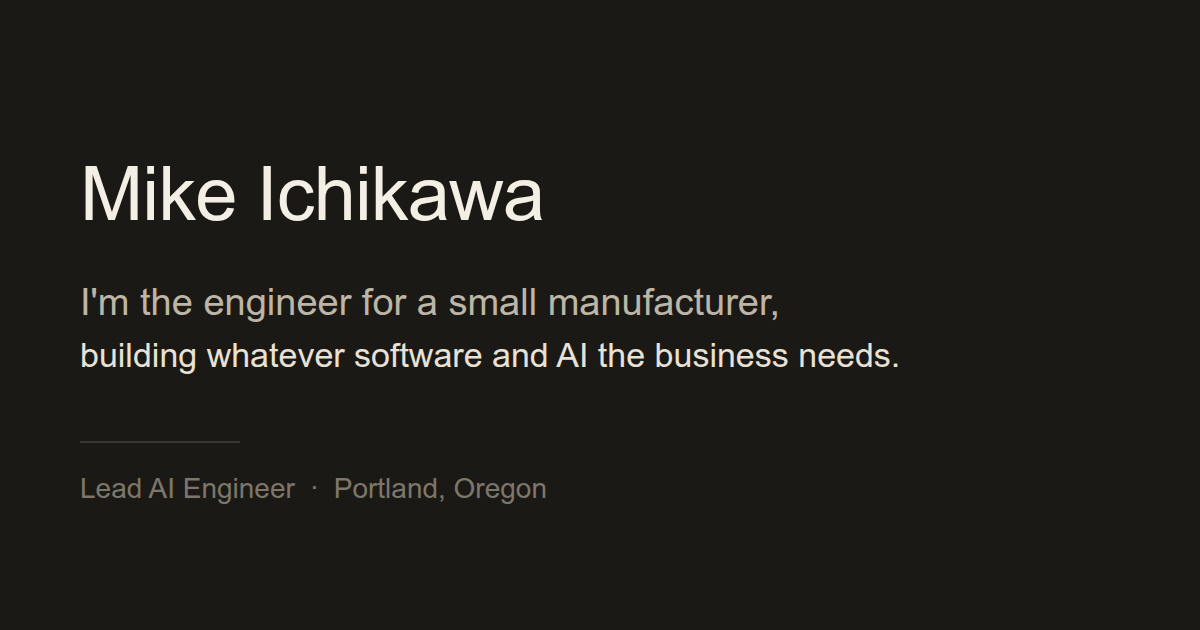
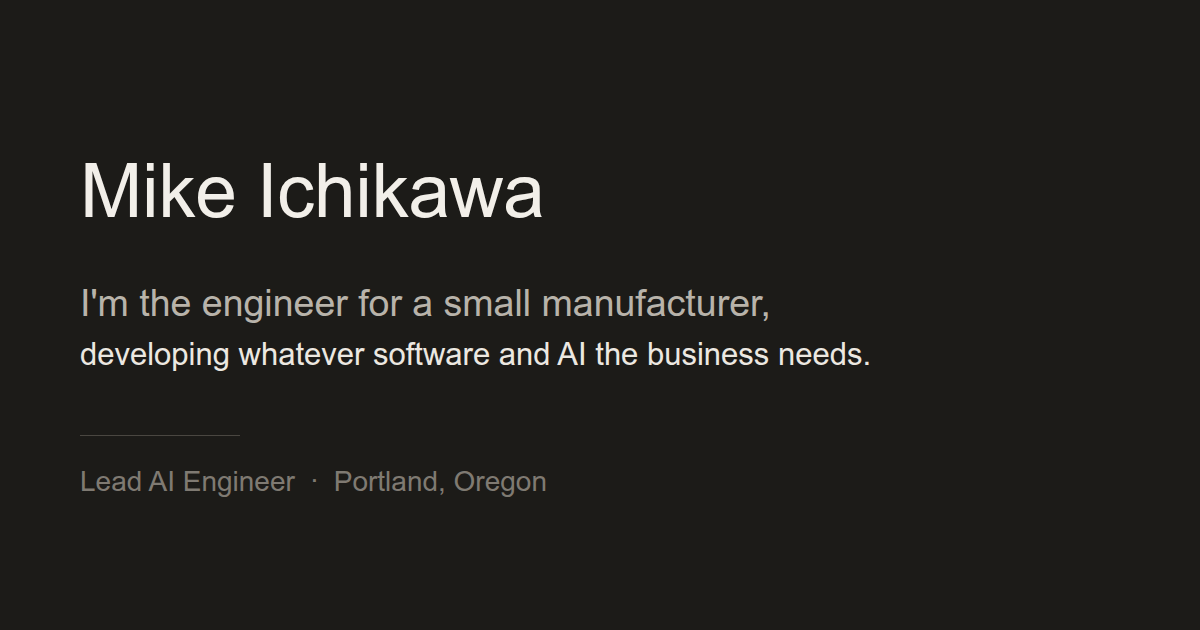
Social card: 'developing', not 'building'; card source now kept in the repo
Claude-Session: https://claude.ai/code/session_012rPPBePi6HoMDitoykvdBK

diff --git a/og-card-source.html b/og-card-source.html
@@ -1,0 +1,16 @@
+<!doctype html><html><head><meta charset="utf-8"><style>
+<!-- Source of og-card.png. Render: chrome-headless-shell --no-sandbox --hide-scrollbars --window-size=1200,630 --screenshot=og-card.png og-card-source.html -->
+html,body{margin:0;width:1200px;height:630px;background:#1c1b18;font-family:Arial,sans-serif;overflow:hidden}
+.w{position:absolute;left:80px;top:148px}
+h1{margin:0;font-weight:400;font-size:75px;color:#f2efe9;letter-spacing:-0.5px}
+.l1{margin:48px 0 0;font-size:37.5px;color:#b8b3aa}
+.l2{margin:12px 0 0;font-size:31px;color:#ece8e1}
+.rule{width:160px;height:1px;background:#4a4741;margin:62px 0 0}
+.f{margin:30px 0 0;font-size:28px;color:#7f7a72}
+</style></head><body><div class="w">
+<h1>Mike Ichikawa</h1>
+<p class="l1">I'm the engineer for a small manufacturer,</p>
+<p class="l2">developing whatever software and AI the business needs.</p>
+<div class="rule"></div>
+<p class="f">Lead AI Engineer &nbsp;·&nbsp; Portland, Oregon</p>
+</div></body></html>
